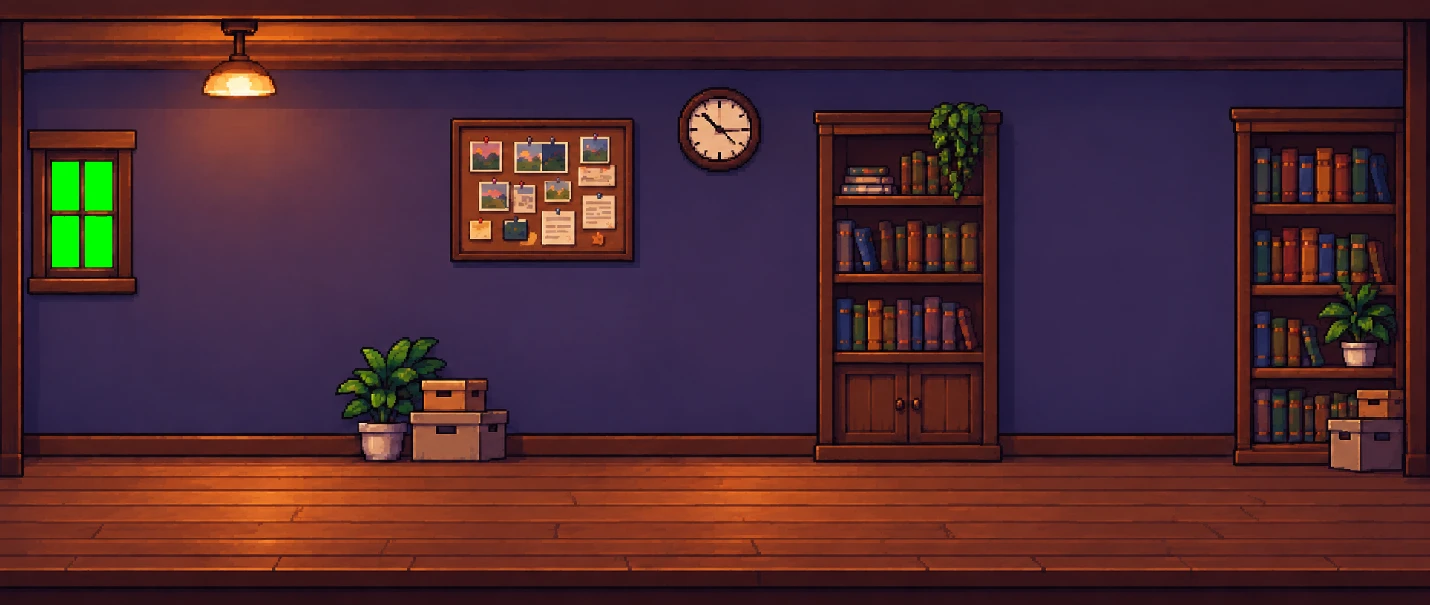
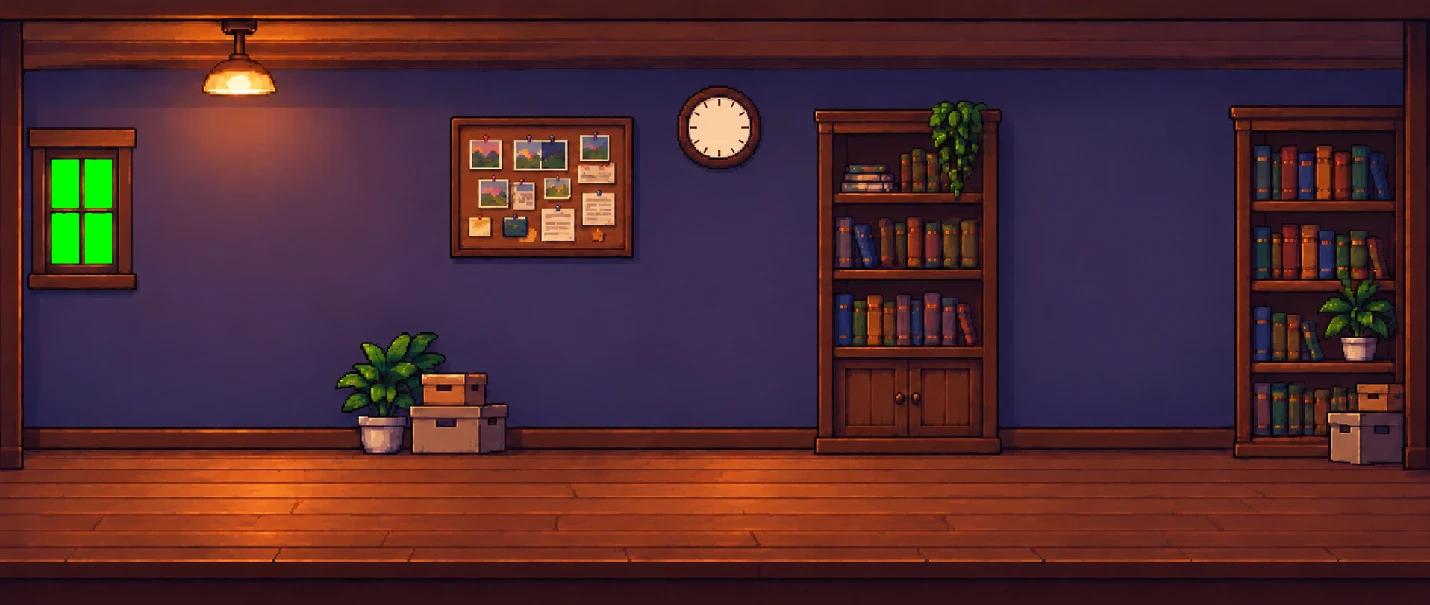
Add lecture room, storage, bookshop and hall backgrounds
- All rooms now use drawn backgrounds; placeholder walls, stairs and
  shelves are gone
- Second-floor walk across the hall follows the bridge in the picture
- Lecture room clock also follows the game time; the reading spot in the
  bookshop is the armchair; the paper angbuilgu sits on the workbench

Claude-Session: https://claude.ai/code/session_011kdEDmLdS2a4uGbf8UfqNv

diff --git a/tools/backgrounds.py b/tools/backgrounds.py
@@ -19,6 +19,10 @@ PX_PER_UNIT = 168 / 40           # tools/sprite_sheet.py의 TARGET_H(168) ÷ 플
 ## 배경마다 게임 속 크기 (게임 좌표: 가로, 세로) — scripts/world.gd의 BACKGROUNDS와 같게
 SIZES = {
     "office": (260, 110),
+    "lecture": (260, 110),
+    "storage": (260, 110),
+    "bookshop": (260, 110),
+    "hall": (160, 220),
 }
 
 
